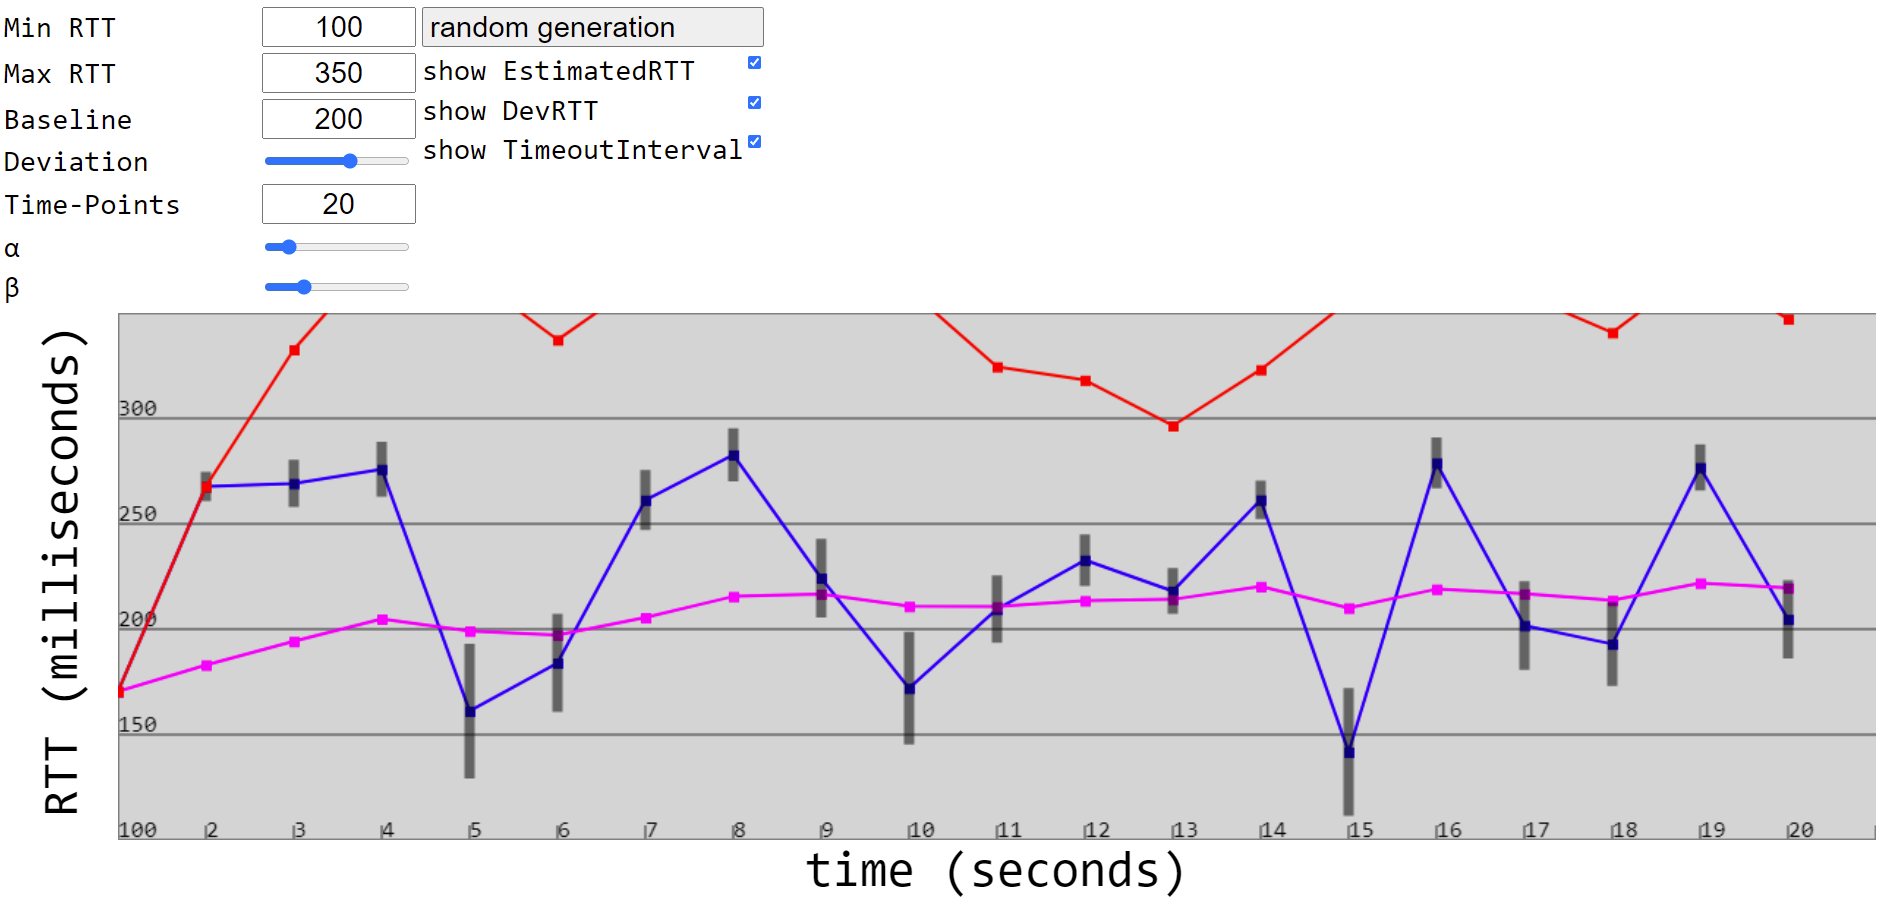
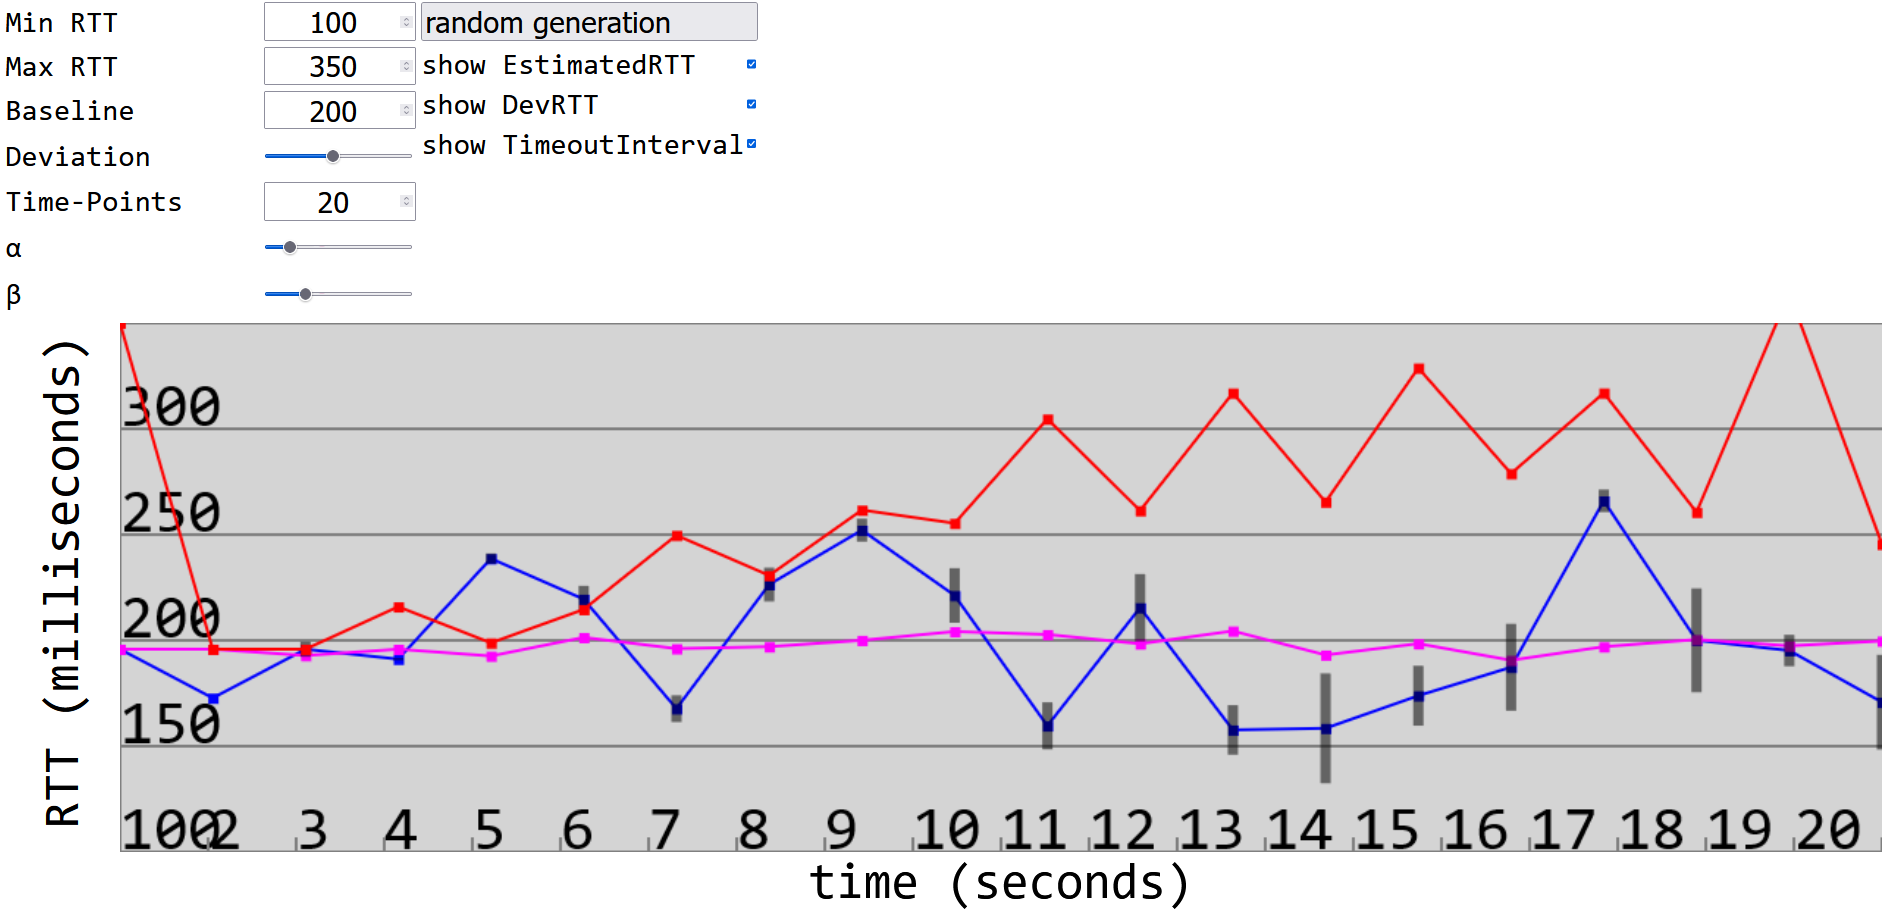
fixed calculations being run with current sample RTT. Now calculating with previous sampleRTT.

diff --git a/dist/main.js b/dist/main.js
@@ -122,7 +122,7 @@ function diagram() {
         canvasContext.lineWidth = 7;
         canvasContext.beginPath();
         for (var i = 0; i < state.rttPoints.length; i++) {
-            var canvasX = canvas.width * (i / state.rttPoints.length);
+            var canvasX = canvas.width * (i / (state.rttPoints.length - 1));
             var canvasY = canvas.height -
                 canvas.height * ((state.rttPoints[i] - minRTT) / (maxRTT - minRTT));
             var yDeviation = canvasY * (state.devRTTPoints[i] / (maxRTT - minRTT));
@@ -141,7 +141,7 @@ function diagram() {
         var previousCanvasX = 0;
         var previousCanvasY = 0;
         for (var i = 0; i < points.length; i++) {
-            var canvasX = canvas.width * (i / points.length);
+            var canvasX = canvas.width * (i / (points.length - 1));
             var canvasY = canvas.height -
                 canvas.height * ((points[i] - minRTT) / (maxRTT - minRTT));
             canvasContext.fillRect(canvasX - 3, canvasY - 3, 7, 7);
@@ -238,12 +238,14 @@ function diagram() {
         draw();
     }
     function calcTimeoutInterval() {
+        if (state.rttPoints.length <= 0)
+            return;
         var alphaERTT = parseInt(alphaERTTInput.value) / 100;
         var betaDevRTT = parseInt(betaDevRTTInput.value) / 100;
-        state.erttPoints = [];
-        state.devRTTPoints = [];
-        state.timeoutIntervalPoints = [];
-        for (var i = 0; i < state.rttPoints.length; i++) {
+        state.erttPoints = [state.rttPoints[0]];
+        state.devRTTPoints = [0];
+        state.timeoutIntervalPoints = [parseInt(maxRTTinput.value)];
+        for (var i = 0; i < state.rttPoints.length - 1; i++) {
             if (i <= 0) {
                 state.erttPoints.push(state.rttPoints[i]);
                 state.devRTTPoints.push(Math.abs(state.rttPoints[i] - state.erttPoints[i]));
@@ -322,4 +324,4 @@ window.onresize = setRemRootOnResize;
 
 /******/ })()
 ;
[2 lines of base64/hex data omitted]

diff --git a/src/index.ts b/src/index.ts
@@ -52,7 +52,7 @@ function diagram() {
     canvasContext.lineWidth = 7;
     canvasContext.beginPath();
     for (let i = 0; i < state.rttPoints.length; i++) {
-      const canvasX = canvas.width * (i / state.rttPoints.length);
+      const canvasX = canvas.width * (i / (state.rttPoints.length - 1));
       const canvasY =
         canvas.height -
         canvas.height * ((state.rttPoints[i] - minRTT) / (maxRTT - minRTT));
@@ -74,7 +74,7 @@ function diagram() {
     let previousCanvasY = 0;
 
     for (let i = 0; i < points.length; i++) {
-      const canvasX = canvas.width * (i / points.length);
+      const canvasX = canvas.width * (i / (points.length - 1));
       const canvasY =
         canvas.height -
         canvas.height * ((points[i] - minRTT) / (maxRTT - minRTT));
@@ -182,12 +182,14 @@ function diagram() {
     draw();
   }
   function calcTimeoutInterval() {
+    if (state.rttPoints.length <= 0) return;
     const alphaERTT = parseInt(alphaERTTInput.value) / 100;
     const betaDevRTT = parseInt(betaDevRTTInput.value) / 100;
-    state.erttPoints = [];
-    state.devRTTPoints = [];
-    state.timeoutIntervalPoints = [];
-    for (let i = 0; i < state.rttPoints.length; i++) {
+    state.erttPoints = [state.rttPoints[0]];
+    state.devRTTPoints = [0];
+    state.timeoutIntervalPoints = [parseInt(maxRTTinput.value)];
+
+    for (let i = 0; i < state.rttPoints.length - 1; i++) {
       if (i <= 0) {
         state.erttPoints.push(state.rttPoints[i]);
         state.devRTTPoints.push(
